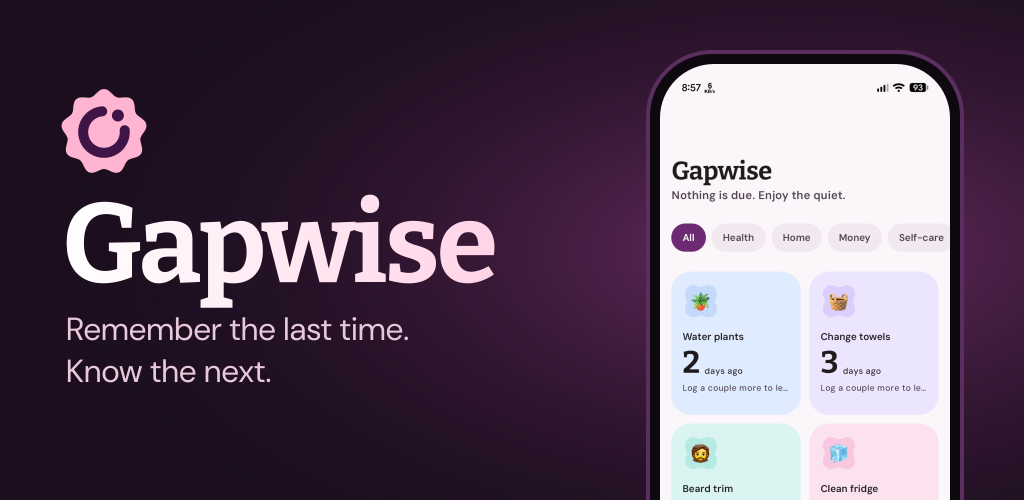
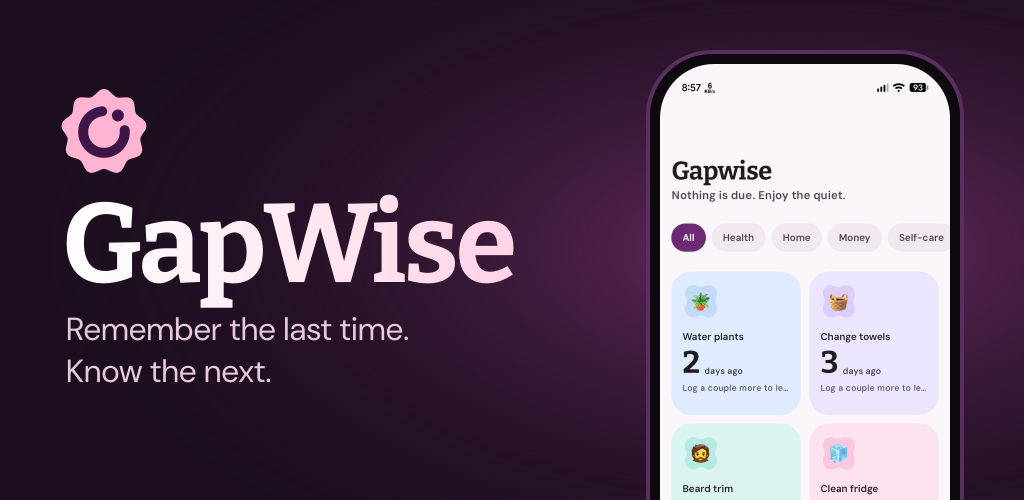
Show the app name as GapWise
Display name only: launcher label, widgets, in-app text, store listing, README and
release notes. Package name, repo, Drive backups and update channels are unchanged.

Claude-Session: https://claude.ai/code/session_018WRVYMtzj1MP4EhPivznAa

Changed region(s): [[0.25, 0.39, 0.5, 0.57]]

diff --git a/app/src/main/java/com/yogeshpaliyal/gapwise/ui/settings/DriveSection.kt b/app/src/main/java/com/yogeshpaliyal/gapwise/ui/settings/DriveSection.kt
@@ -104,14 +104,14 @@ fun DriveSection() {
             }
             DriveAction.RESTORE -> guarded("Looking for your backup…") {
                 val remote = DriveBackup.latest(token)
-                if (remote == null) message = "There's no Gapwise backup in this Google account yet."
+                if (remote == null) message = "There's no GapWise backup in this Google account yet."
                 else restoreOffer = token to remote
             }
             DriveAction.AUTO_ON -> {
                 prefs.driveAutoBackup = true
                 auto = true
                 DriveBackupWorker.schedule(context)
-                message = "Gapwise will back up once a day on Wi-Fi."
+                message = "GapWise will back up once a day on Wi-Fi."
             }
         }
     }
@@ -169,7 +169,7 @@ fun DriveSection() {
                 }
             }
             Text(
-                "Saved to a private app folder in your Google Drive that only Gapwise can see. Each backup replaces the last one.",
+                "Saved to a private app folder in your Google Drive that only GapWise can see. Each backup replaces the last one.",
                 style = MaterialTheme.typography.bodySmall,
                 color = MaterialTheme.colorScheme.onSurfaceVariant,
             )

diff --git a/app/src/main/java/com/yogeshpaliyal/gapwise/update/UpdateUi.kt b/app/src/main/java/com/yogeshpaliyal/gapwise/update/UpdateUi.kt
@@ -81,7 +81,7 @@ fun UpdateBanner(modifier: Modifier = Modifier) {
                         )
                         Text(
                             when (s) {
-                                is UpdateState.ReadyToInstall -> "Restart Gapwise to finish. Your data stays as it is."
+                                is UpdateState.ReadyToInstall -> "Restart GapWise to finish. Your data stays as it is."
                                 is UpdateState.Downloading -> "Keep using the app. We'll let you know when it's ready."
                                 else -> "Get the latest fixes and features."
                             },
@@ -163,6 +163,6 @@ fun UpdateSettings(versionName: String) {
             .padding(16.dp),
     ) {
         Text(updater.rateLabel, style = MaterialTheme.typography.titleMedium)
-        Text("It helps other people find Gapwise.", style = MaterialTheme.typography.bodySmall, color = MaterialTheme.colorScheme.onSurfaceVariant)
+        Text("It helps other people find GapWise.", style = MaterialTheme.typography.bodySmall, color = MaterialTheme.colorScheme.onSurfaceVariant)
     }
 }

diff --git a/app/src/main/java/com/yogeshpaliyal/gapwise/ui/settings/SettingsScreen.kt b/app/src/main/java/com/yogeshpaliyal/gapwise/ui/settings/SettingsScreen.kt
@@ -74,7 +74,7 @@ fun SettingsScreen(onBack: () -> Unit, onOpenTour: () -> Unit) {
                 } ?: error("empty")
                 repo.importJson(text)
             }
-            val msg = result.fold({ "Imported $it events" }, { "That file doesn't look like a Gapwise backup" })
+            val msg = result.fold({ "Imported $it events" }, { "That file doesn't look like a GapWise backup" })
             Toast.makeText(context, msg, Toast.LENGTH_SHORT).show()
         }
     }
@@ -115,7 +115,7 @@ fun SettingsScreen(onBack: () -> Unit, onOpenTour: () -> Unit) {
             Item("Export to a file", "Save all events and history as a JSON file") {
                 exporter.launch("gapwise-${LocalDate.now()}.json")
             }
-            Item("Import from a file", "Add events from a Gapwise JSON file. Nothing is overwritten.") {
+            Item("Import from a file", "Add events from a GapWise JSON file. Nothing is overwritten.") {
                 importer.launch(arrayOf("application/json", "text/plain", "*/*"))
             }
             HorizontalDivider()

diff --git a/app/src/main/java/com/yogeshpaliyal/gapwise/ui/detail/DetailScreen.kt b/app/src/main/java/com/yogeshpaliyal/gapwise/ui/detail/DetailScreen.kt
@@ -298,7 +298,7 @@ private fun RhythmCard(ui: EventUi) {
         if (r.usualDays == null) {
             val left = (3 - r.logCount).coerceAtLeast(1)
             Text(
-                "Log this $left more time${if (left > 1) "s" else ""} and Gapwise will learn how often you usually do it.",
+                "Log this $left more time${if (left > 1) "s" else ""} and GapWise will learn how often you usually do it.",
                 style = MaterialTheme.typography.bodyLarge,
             )
         } else {
@@ -350,7 +350,7 @@ private fun shareIntent(ui: EventUi): Intent {
     val text = buildString {
         append("${ui.event.emoji} ${ui.event.name}: ${TimeText.elapsedInline(r.lastAt)}")
         r.usualDays?.let { append(" · ${TimeText.usualText(it).lowercase()}") }
-        append("\n— tracked with Gapwise")
+        append("\n— tracked with GapWise")
     }
     return Intent(Intent.ACTION_SEND).setType("text/plain").putExtra(Intent.EXTRA_TEXT, text)
 }

diff --git a/app/src/main/java/com/yogeshpaliyal/gapwise/ui/welcome/WelcomeScreen.kt b/app/src/main/java/com/yogeshpaliyal/gapwise/ui/welcome/WelcomeScreen.kt
@@ -79,7 +79,7 @@ fun WelcomeScreen(onDone: () -> Unit, vm: WelcomeViewModel = viewModel()) {
             Text("Remember the last time.\nKnow the next.", style = MaterialTheme.typography.displaySmall)
             Spacer(Modifier.height(8.dp))
             Text(
-                "Pick a few things you do now and then. Gapwise learns how often you usually do them, with no streaks and no guilt.",
+                "Pick a few things you do now and then. GapWise learns how often you usually do them, with no streaks and no guilt.",
                 style = MaterialTheme.typography.bodyMedium,
                 color = MaterialTheme.colorScheme.onSurfaceVariant,
             )

diff --git a/app/src/main/java/com/yogeshpaliyal/gapwise/widget/TilesWidgetConfigActivity.kt b/app/src/main/java/com/yogeshpaliyal/gapwise/widget/TilesWidgetConfigActivity.kt
@@ -200,7 +200,7 @@ private fun ConfigScreen(
         }
         if (list.isEmpty()) {
             Box(Modifier.padding(padding).fillMaxSize().padding(32.dp), contentAlignment = Alignment.Center) {
-                Text("You haven't added any events yet. Add some in Gapwise, then come back.", style = MaterialTheme.typography.bodyLarge)
+                Text("You haven't added any events yet. Add some in GapWise, then come back.", style = MaterialTheme.typography.bodyLarge)
             }
             return@Scaffold
         }

diff --git a/app/src/main/java/com/yogeshpaliyal/gapwise/widget/GapwiseWidget.kt b/app/src/main/java/com/yogeshpaliyal/gapwise/widget/GapwiseWidget.kt
@@ -115,7 +115,7 @@ class GapwiseWidget : GlanceAppWidget() {
                 @Composable {
                     TitleBar(
                         startIcon = ImageProvider(R.drawable.ic_stat_gapwise),
-                        title = if (picked) "Gapwise" else "Due soon",
+                        title = if (picked) "GapWise" else "Due soon",
                         iconColor = GlanceTheme.colors.primary,
                         textColor = GlanceTheme.colors.onSurface,
                         actions = {

diff --git a/app/src/test/java/com/yogeshpaliyal/gapwise/SmokeTest.kt b/app/src/test/java/com/yogeshpaliyal/gapwise/SmokeTest.kt
@@ -109,7 +109,7 @@ class SmokeTest {
         ActivityScenario.launch(MainActivity::class.java).use {
             compose.onNodeWithText("Water plants").performClick()
             compose.onNodeWithText("Add 1 event").performClick()
-            compose.waitUntil(10_000) { compose.onAllNodesWithText("Gapwise").fetchSemanticsNodes().isNotEmpty() }
+            compose.waitUntil(10_000) { compose.onAllNodesWithText("GapWise").fetchSemanticsNodes().isNotEmpty() }
         }
     }
 }

diff --git a/app/src/play/java/com/yogeshpaliyal/gapwise/update/Updaters.kt b/app/src/play/java/com/yogeshpaliyal/gapwise/update/Updaters.kt
@@ -39,7 +39,7 @@ private class PlayUpdater(private val app: Context) : AppUpdater {
     private var launcher: ActivityResultLauncher<IntentSenderRequest>? = null
 
     override val sourceLabel = "Updates come from Google Play"
-    override val rateLabel = "Rate Gapwise on Google Play"
+    override val rateLabel = "Rate GapWise on Google Play"
 
     private val listener = InstallStateUpdatedListener { s ->
         _state.value = when (s.installStatus()) {

diff --git a/app/src/main/java/com/yogeshpaliyal/gapwise/widget/TilesWidget.kt b/app/src/main/java/com/yogeshpaliyal/gapwise/widget/TilesWidget.kt
@@ -120,7 +120,7 @@ class GapwiseTilesWidget : GlanceAppWidget() {
                     contentAlignment = Alignment.Center,
                 ) {
                     Text(
-                        "Add events in Gapwise",
+                        "Add events in GapWise",
                         style = TextStyle(color = GlanceTheme.colors.onSurfaceVariant, textAlign = TextAlign.Center),
                     )
                 }

diff --git a/app/src/github/java/com/yogeshpaliyal/gapwise/update/Updaters.kt b/app/src/github/java/com/yogeshpaliyal/gapwise/update/Updaters.kt
@@ -48,7 +48,7 @@ private class GithubUpdater(private val app: Context) : AppUpdater {
     override val sourceLabel: String =
         if (tracksMaster) "Checks the latest-master build on GitHub" else "Checks GitHub releases"
 
-    override val rateLabel = "Star Gapwise on GitHub"
+    override val rateLabel = "Star GapWise on GitHub"
 
     override fun attach(activity: ComponentActivity) {
         this.activity = activity

diff --git a/app/src/main/java/com/yogeshpaliyal/gapwise/backup/DriveBackup.kt b/app/src/main/java/com/yogeshpaliyal/gapwise/backup/DriveBackup.kt
@@ -24,7 +24,7 @@ import kotlin.coroutines.resumeWithException
 
 /**
  * Backs up to the user's Google Drive "app data" folder: a hidden folder only
- * Gapwise can read, which doesn't clutter their Drive. One file, replaced on
+ * GapWise can read, which doesn't clutter their Drive. One file, replaced on
  * every backup.
  *
  * Uses Google Identity Services for consent and the Drive REST API directly,
